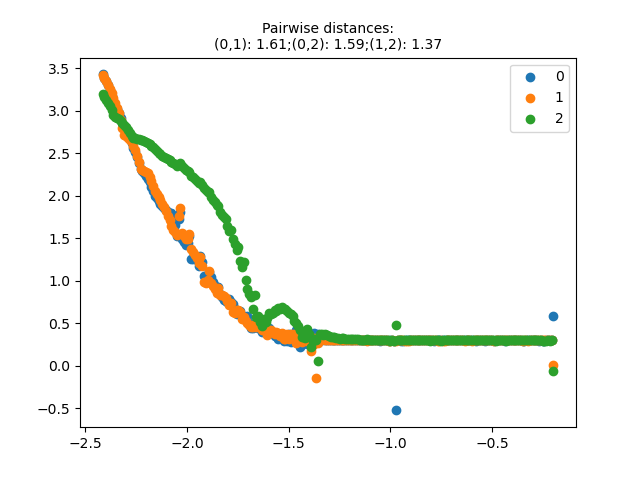
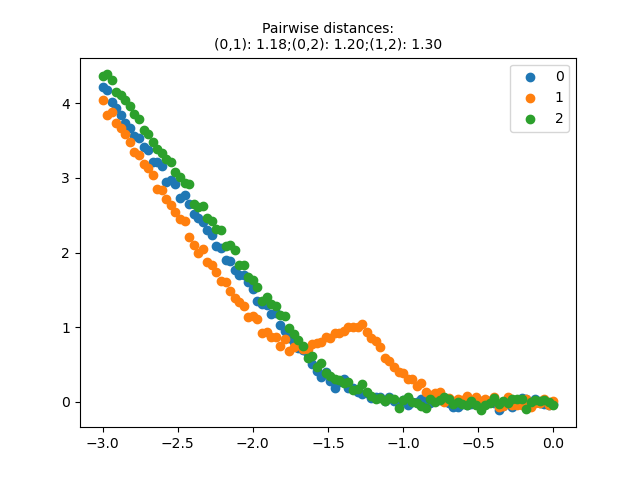
update the tutorial with apdist testing code

diff --git a/testing/01_apdist.py b/testing/01_apdist.py
@@ -2,7 +2,7 @@
 import xarray as xr
 xr.set_options(display_expand_data=False)
 
-from AFL.double_agent_tutorial.instruments.tutorial import get_virtual_instrument
+from AFL.double_agent.data import example_dataset2
 from AFL.double_agent.Preprocessor import LogLogTransform
 from AFL.double_agent.Pipeline import Pipeline
 from AFL.double_agent.AmplitudePhaseDistance import AmplitudePhaseDistance
@@ -12,21 +12,19 @@ import numpy as np
 import time 
 from scipy.spatial.distance import squareform
 
-instrument = get_virtual_instrument()
+example_dataset = example_dataset2()
+print(example_dataset)
 
-composition_list = [
-    {'a':1/3,'b':1/3,'c':1/3},
-    {'a':0.0,'b':0.5,'c':0.5},
-    {'a':0.5,'b':0.0,'c':0.5},
-]
-
-input_dataset = instrument.measure_multiple(composition_list)
+n_samples = 3
+sample_indices = example_dataset.sample.values 
+selected_samples = np.random.choice(sample_indices, size=n_samples, replace=False)
+input_dataset = example_dataset.sel(sample=selected_samples)
 print(input_dataset)
 
 # test log-log preprocessor
 with Pipeline() as test_pipeline:
        LogLogTransform(
-           input_variable='sas',
+           input_variable='I',
            output_variable='log_iq',
            dim='q',
         )
@@ -44,17 +42,15 @@ print(x.shape, y.shape)
 for method in ["discrete", "continuous"]:
     print("testing for %s..."%method)
     start = time.time()
-    with test_pipeline:
+    with test_pipeline.copy() as tp:
         AmplitudePhaseDistance(
             input_variable="log_iq",
             output_variable='similarity',
             method=method,
-            sample_dim='log_q',
+            sample_dim='sample',
             )
 
-    test_pipeline.print()
-
-    result_dataset = test_pipeline.calculate(input_dataset)
+    result_dataset = tp.calculate(input_dataset)
     D = result_dataset.similarity.values
     print(D)
     assert np.isfinite(D).all(), "Distances are not finite"
@@ -77,8 +73,9 @@ for method in ["discrete", "continuous"]:
     dist_str = "Pairwise distances:\n" + ";".join(
         f"({i},{j}): {d:.2f}" for (i, j), d in zip(ij_pairs, dists)
     )
-    ax.legend()
     plt.title(dist_str, fontsize=10)
+
+    ax.legend()
     plt.savefig("%s.png"%method)
     plt.close()
 
